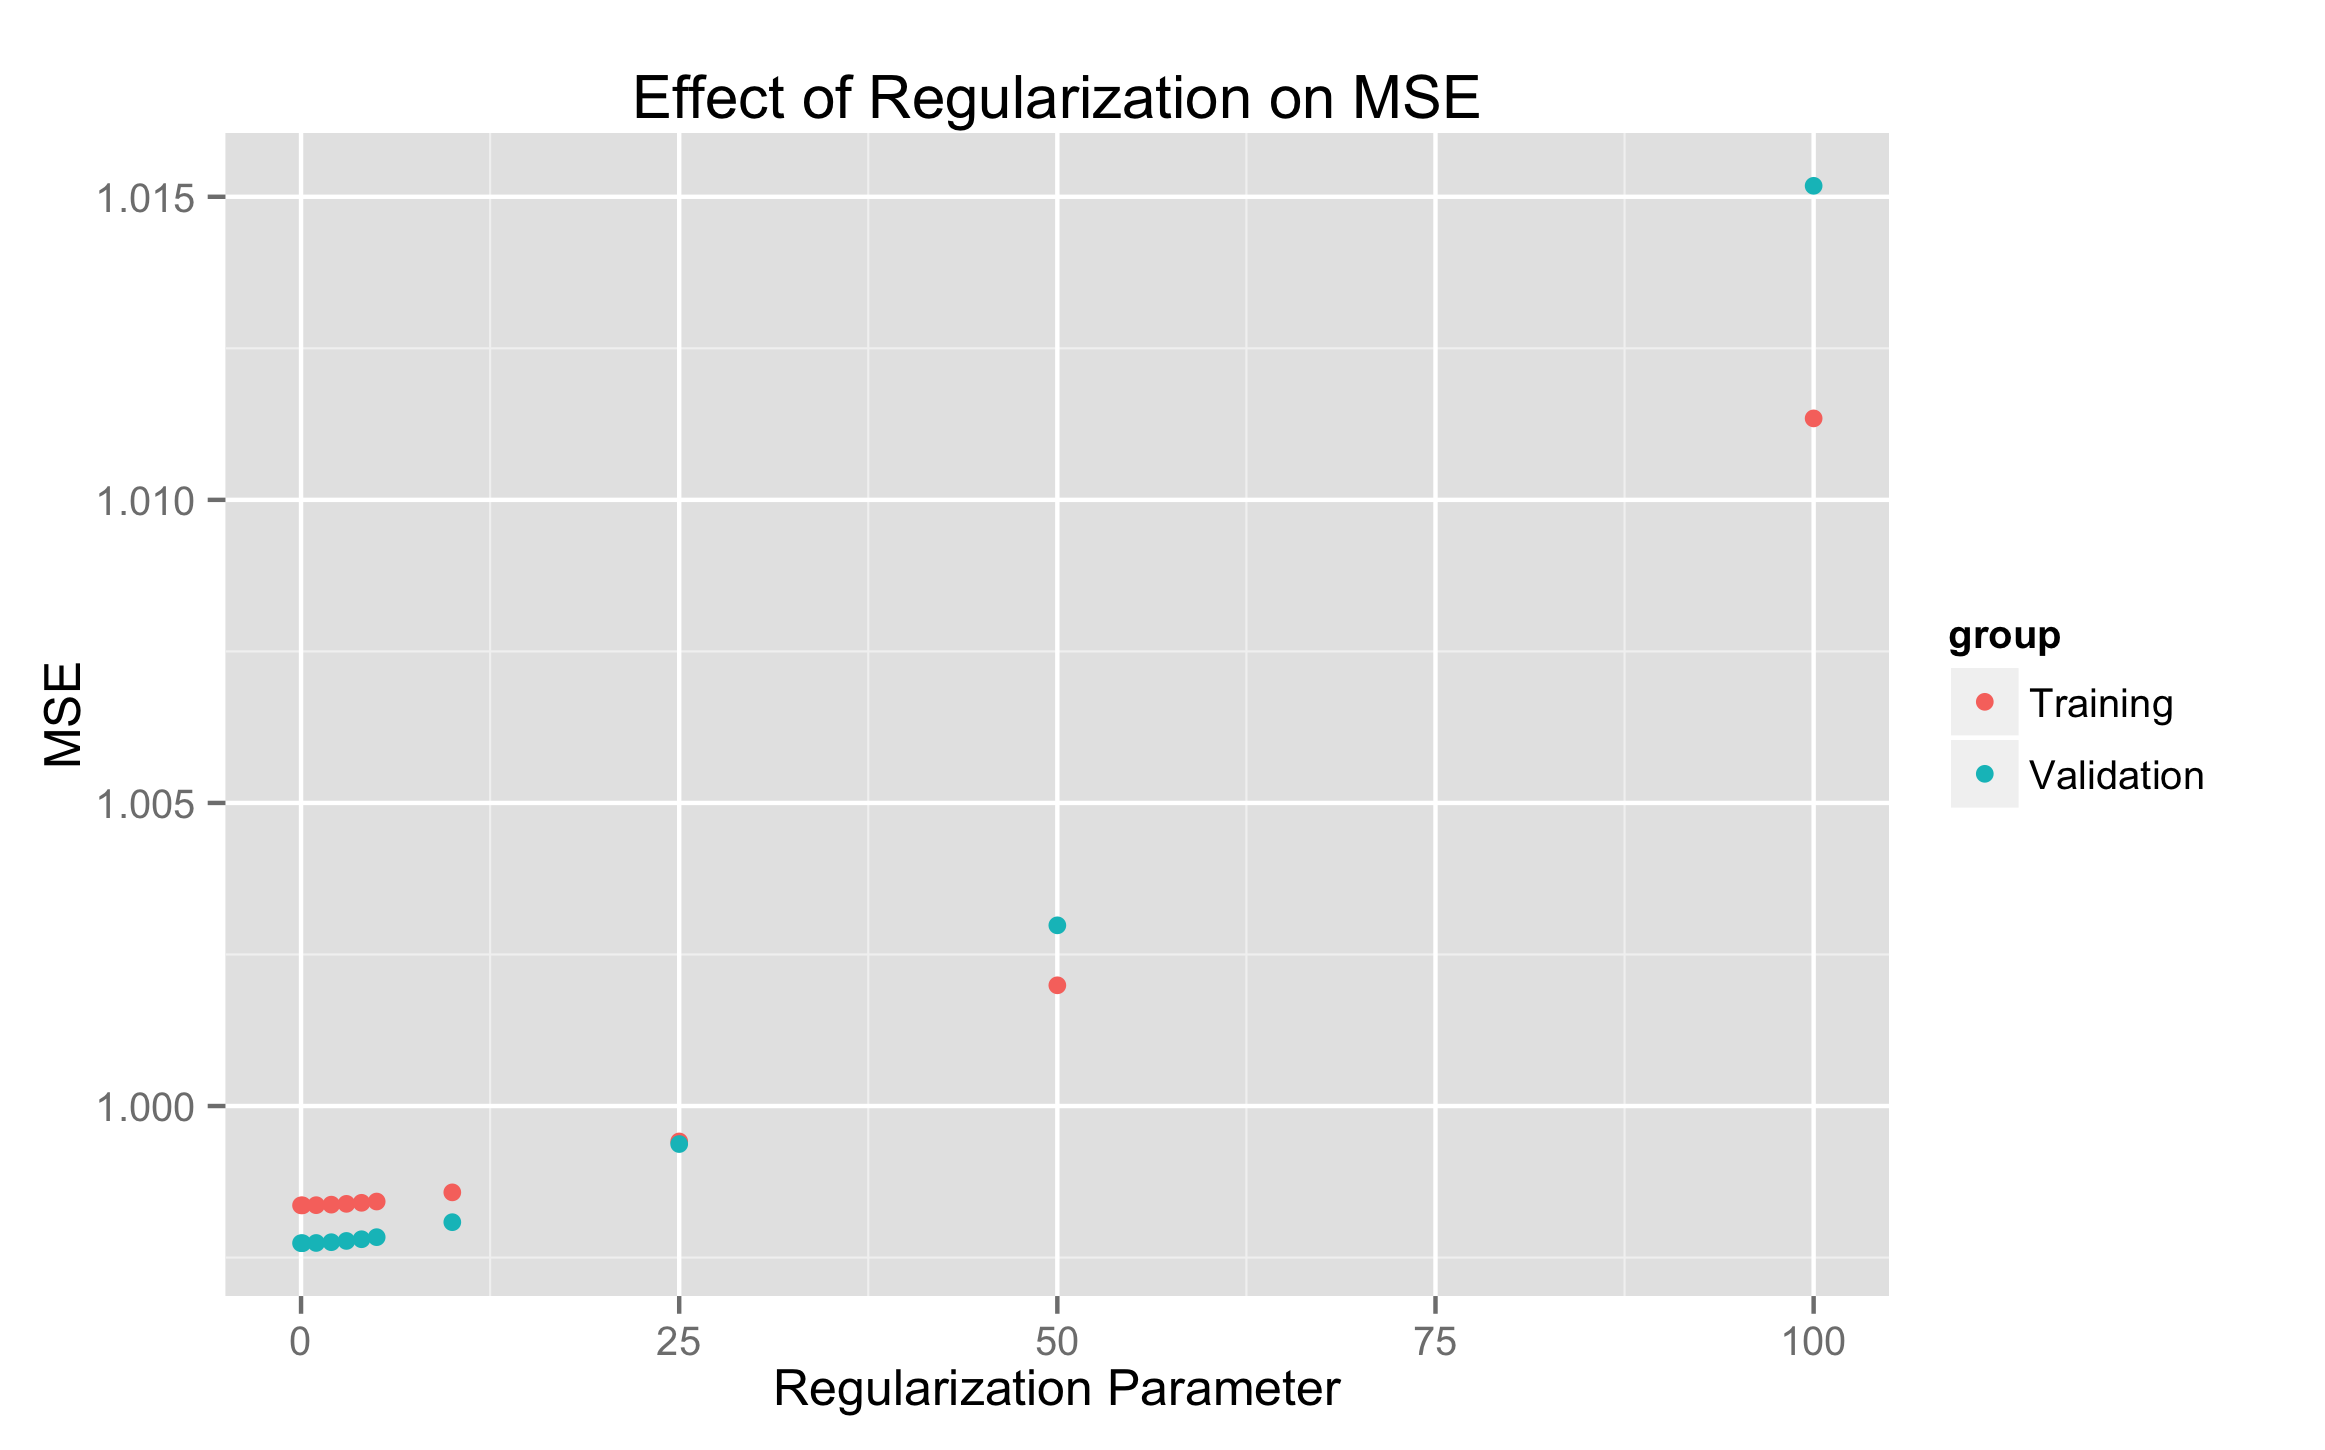
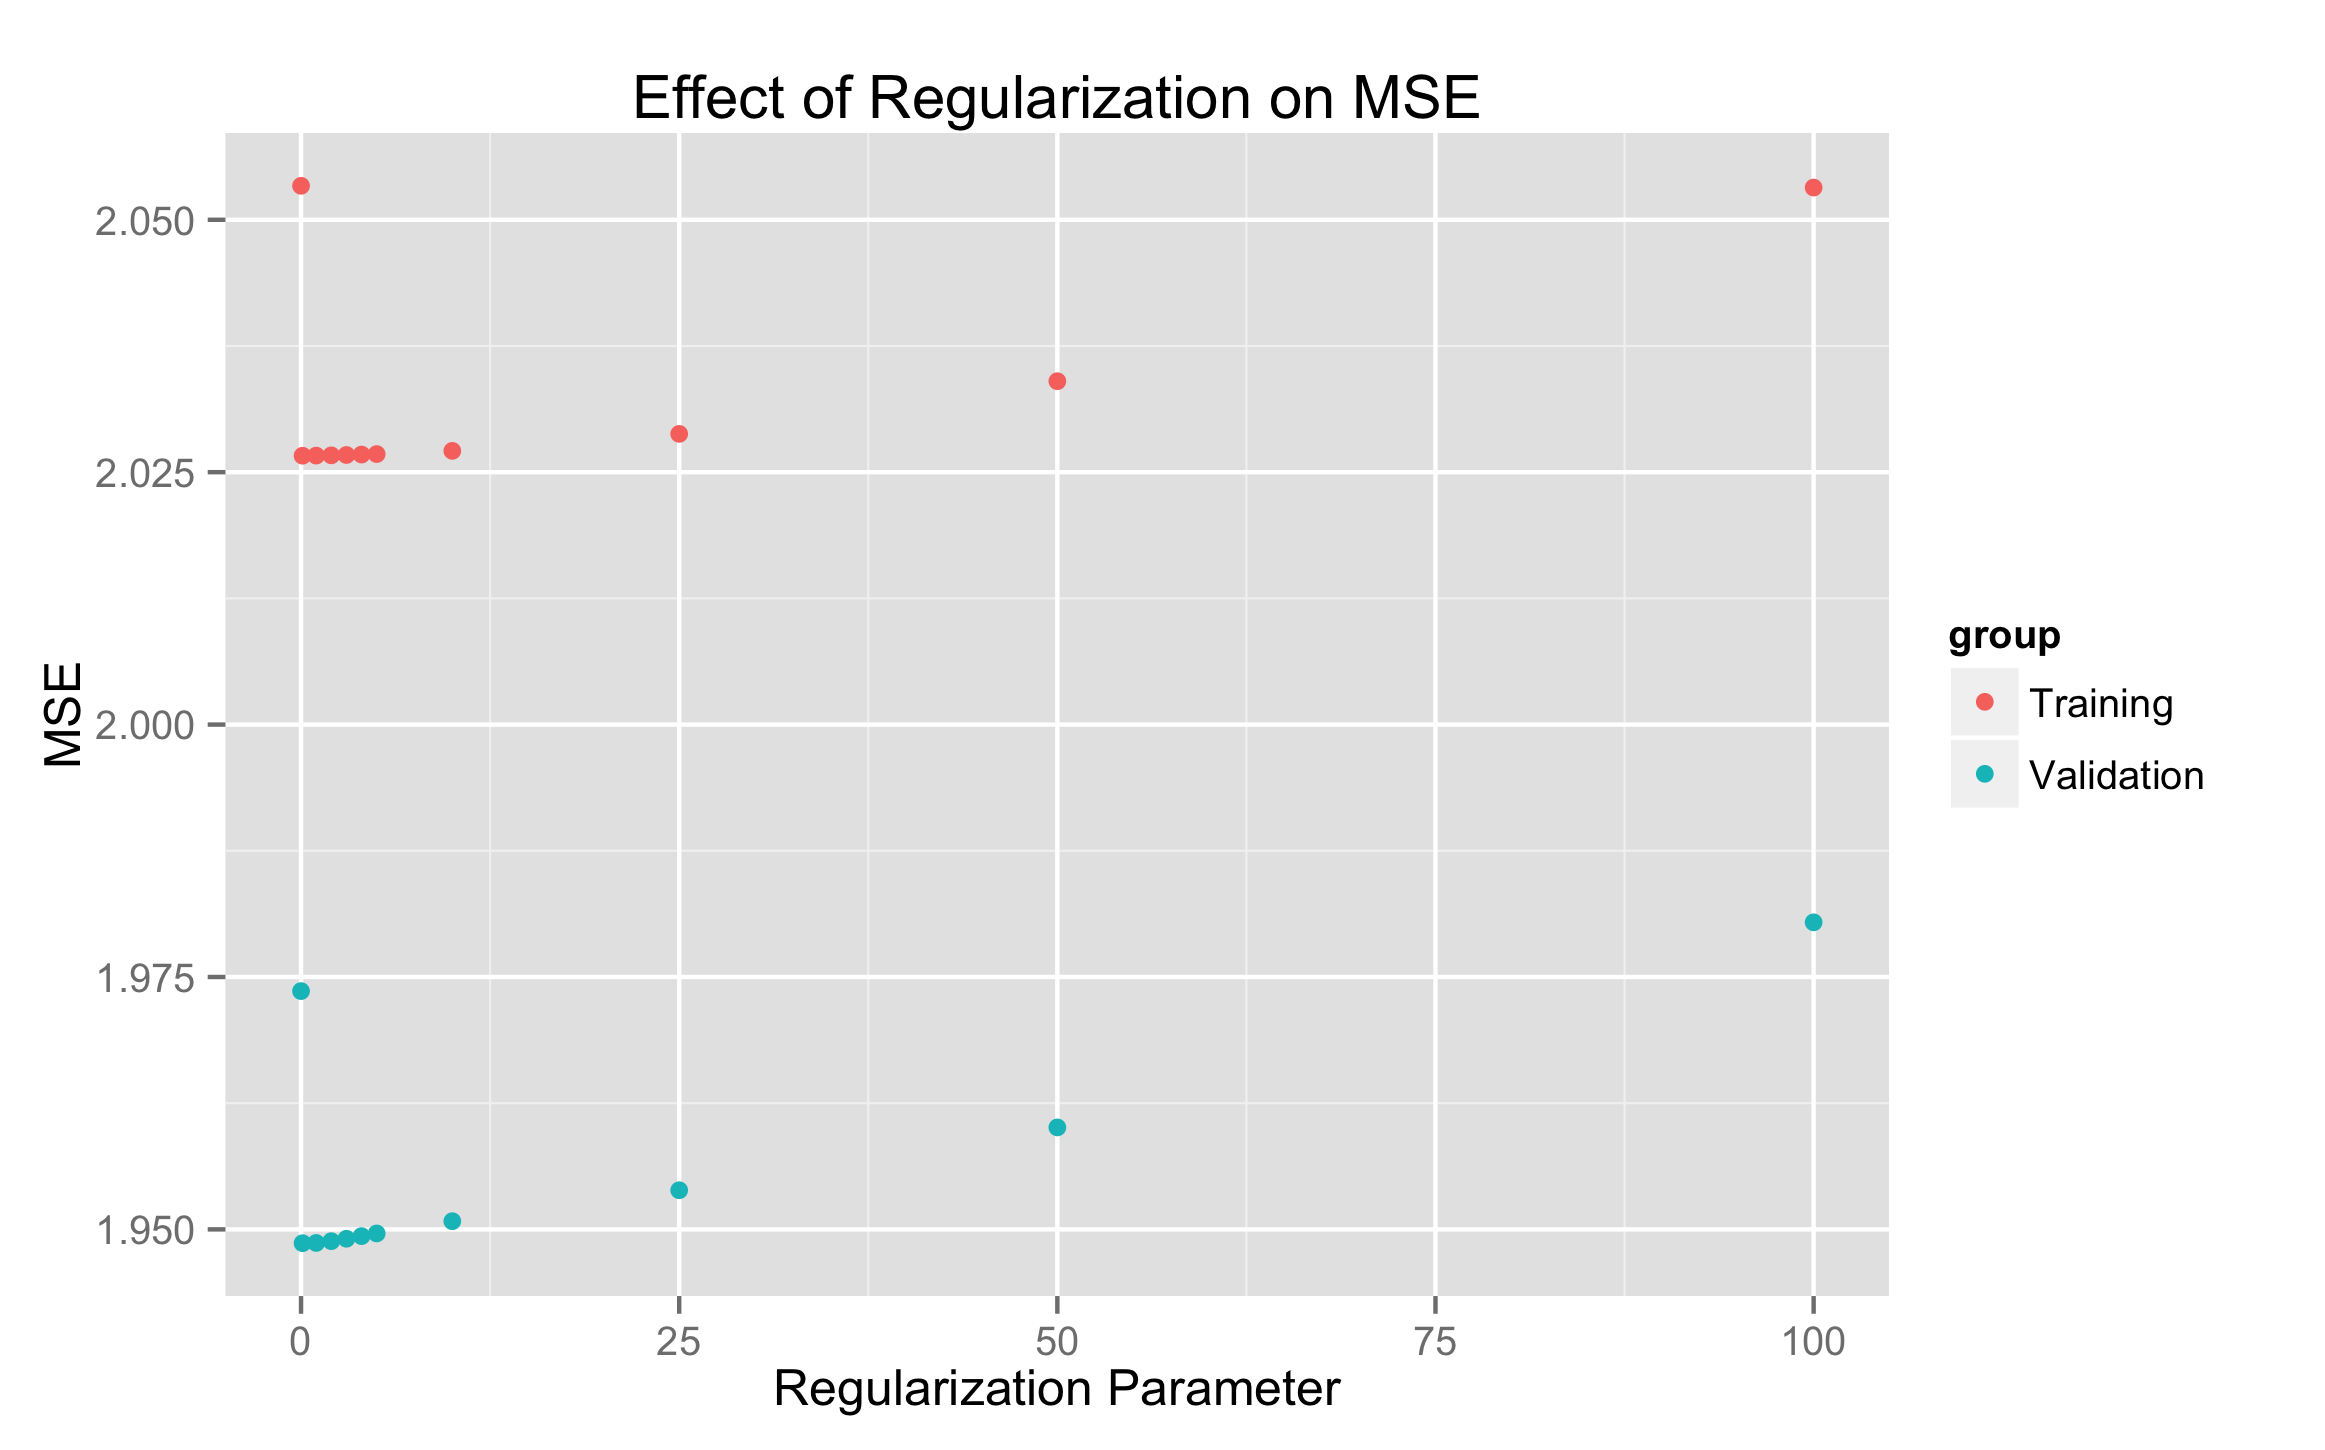
[project] some tidying up.

diff --git a/Project/Latex/Paper.tex b/Project/Latex/Paper.tex
@@ -222,6 +222,7 @@ We also include features that attempt to capture the article sentiment and the a
 \label{fig:mse_plot}
 \end{figure}
 
+\begin{center}
 \begin{tabular}{lr}
 \toprule
 Feature  &  Weight\\
@@ -247,6 +248,7 @@ type\_BlogPost & -0.170\\
 desk\_BookReview & -0.169\\
 typeOfMaterial\_Op-Ed & 0.167\\
 \end{tabular}
+\end{center}
 %------------------------------------------------
 \phantomsection
 \section*{Acknowledgments} % The \section*{} command stops section numbering

diff --git a/Project/regression/regression.py b/Project/regression/regression.py
@@ -133,7 +133,7 @@ ls = []
 
 for l in [0, .1, 1, 2, 3, 4, 5, 10, 25, 50, 100]:
     XtX = np.dot(np.transpose(X), X) + l*np.identity(X.shape[1])
-    XtXinv = np.linalg.pinv(XtX)
+    XtXinv = np.linalg.inv(XtX)
 
     beta = np.dot(np.dot(XtXinv, np.transpose(X)), y)
 
